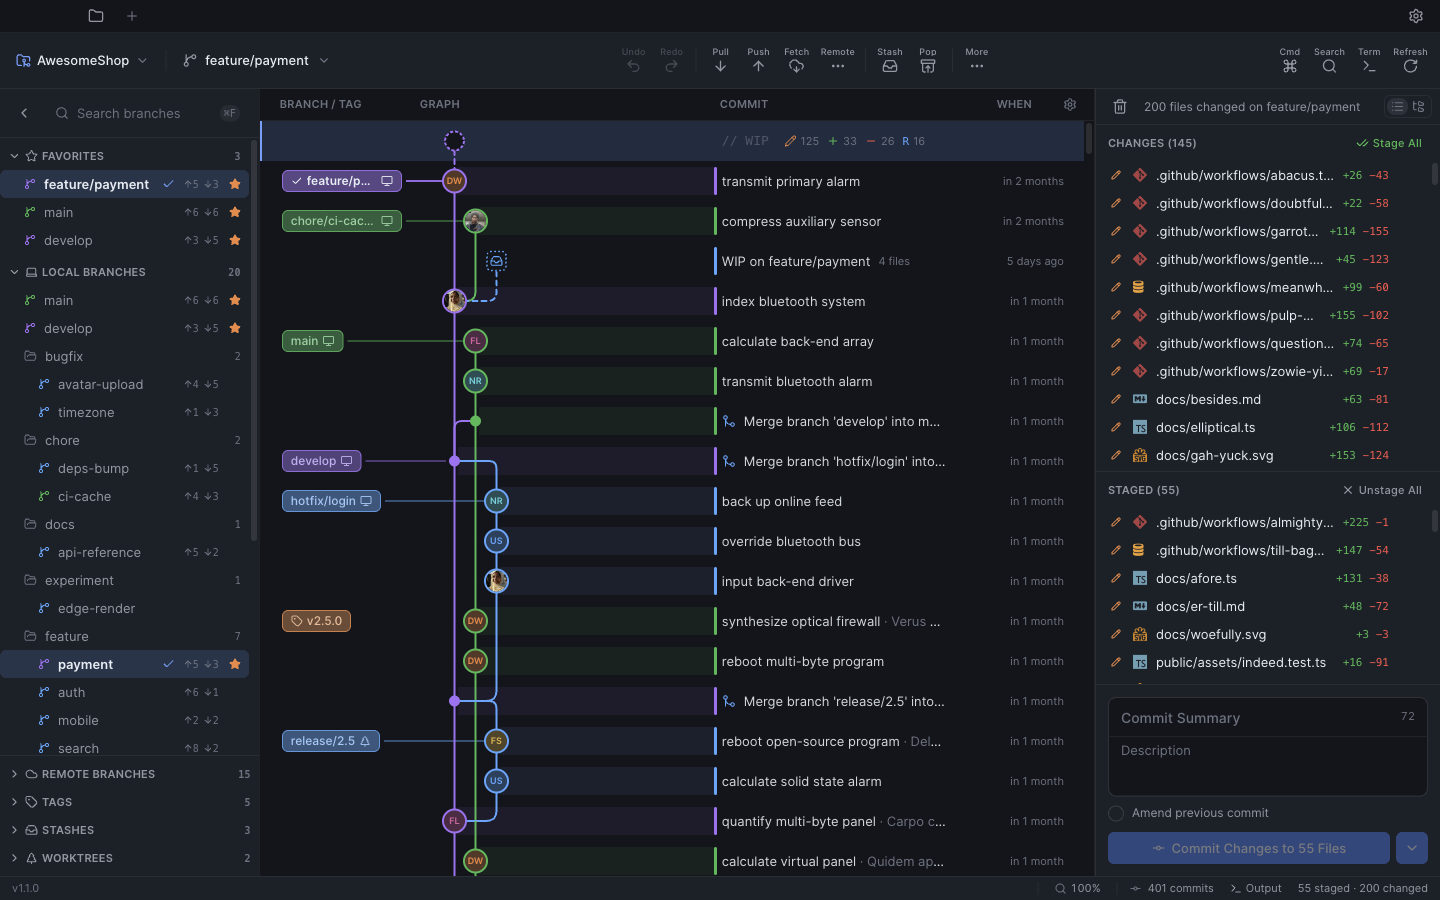
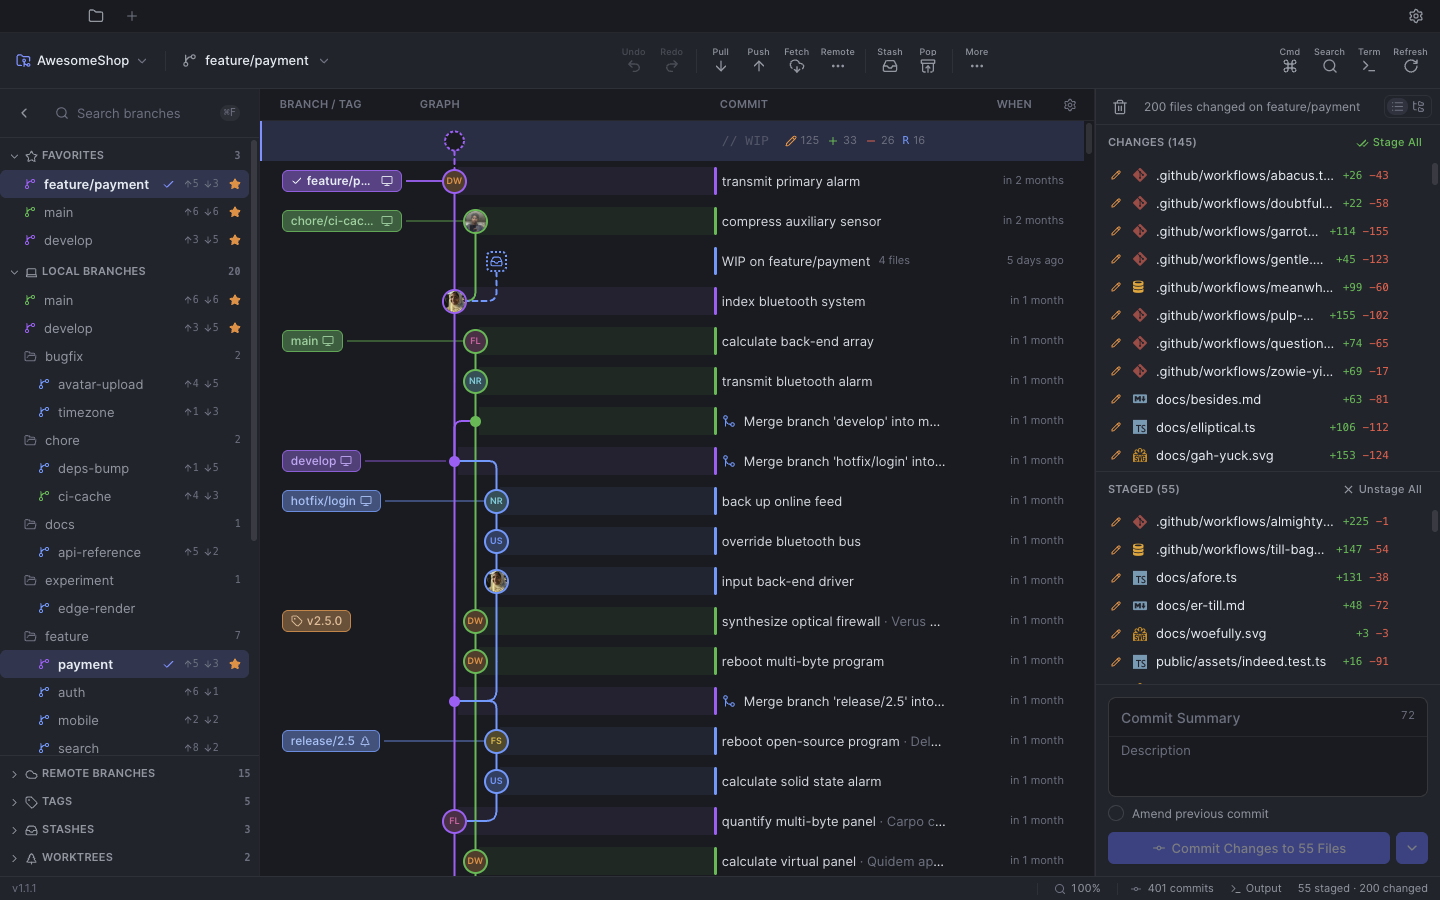
Release v1.1.1
Fix a needless_bool clippy failure in the graph commit filter that broke CI
on newer Rust toolchains, and refresh the release screenshot.

diff --git a/docs/index.html b/docs/index.html
@@ -925,7 +925,7 @@
             "applicationCategory": "DeveloperApplication",
             "applicationSubCategory": "Version Control",
             "operatingSystem": "macOS, Windows, Linux",
-            "softwareVersion": "1.1.0",
+            "softwareVersion": "1.1.1",
             "description": "Desktop Git client with a commit graph, branch sidebar, working tree, interactive rebase, and real local Git operations via the native Git CLI.",
             "downloadUrl": "https://github.com/ftuyama/git-light/releases",
             "screenshot": "https://ftuyama.github.io/git-light/screenshot.png",
@@ -1045,7 +1045,7 @@
         <div class="wrap">
           <div class="badge">
             <span class="badge-dot"></span>
-            v1.1.0 · Open source · Tauri desktop app
+            v1.1.1 · Open source · Tauri desktop app
           </div>
           <h1>Git Light — a lighter way to <span>see your Git history</span></h1>
           <p>
@@ -1427,7 +1427,7 @@ xattr -dr com.apple.quarantine "/Applications/Git Light.app"</code></pre>
       <div class="wrap">
         <p>
           <a href="https://github.com/ftuyama/git-light">Git Light</a>
-          v1.1.0
+          v1.1.1
           · MIT License · Built by
           <a href="https://github.com/ftuyama">ftuyama</a>
           · <a href="https://ko-fi.com/lelouchiee" target="_blank" rel="noopener noreferrer">Sponsor on Ko-fi</a>

diff --git a/src-tauri/src/log.rs b/src-tauri/src/log.rs
@@ -314,13 +314,9 @@ pub fn filter_graph_commits(commits: Vec<WireCommit>) -> Vec<WireCommit> {
                 return false;
             }
             let lower = c.subject.to_lowercase();
-            if lower.starts_with("wip on ")
+            !(lower.starts_with("wip on ")
                 || lower.starts_with("on ")
-                || lower.starts_with("index on ")
-            {
-                return false;
-            }
-            true
+                || lower.starts_with("index on "))
         })
         .collect()
 }
